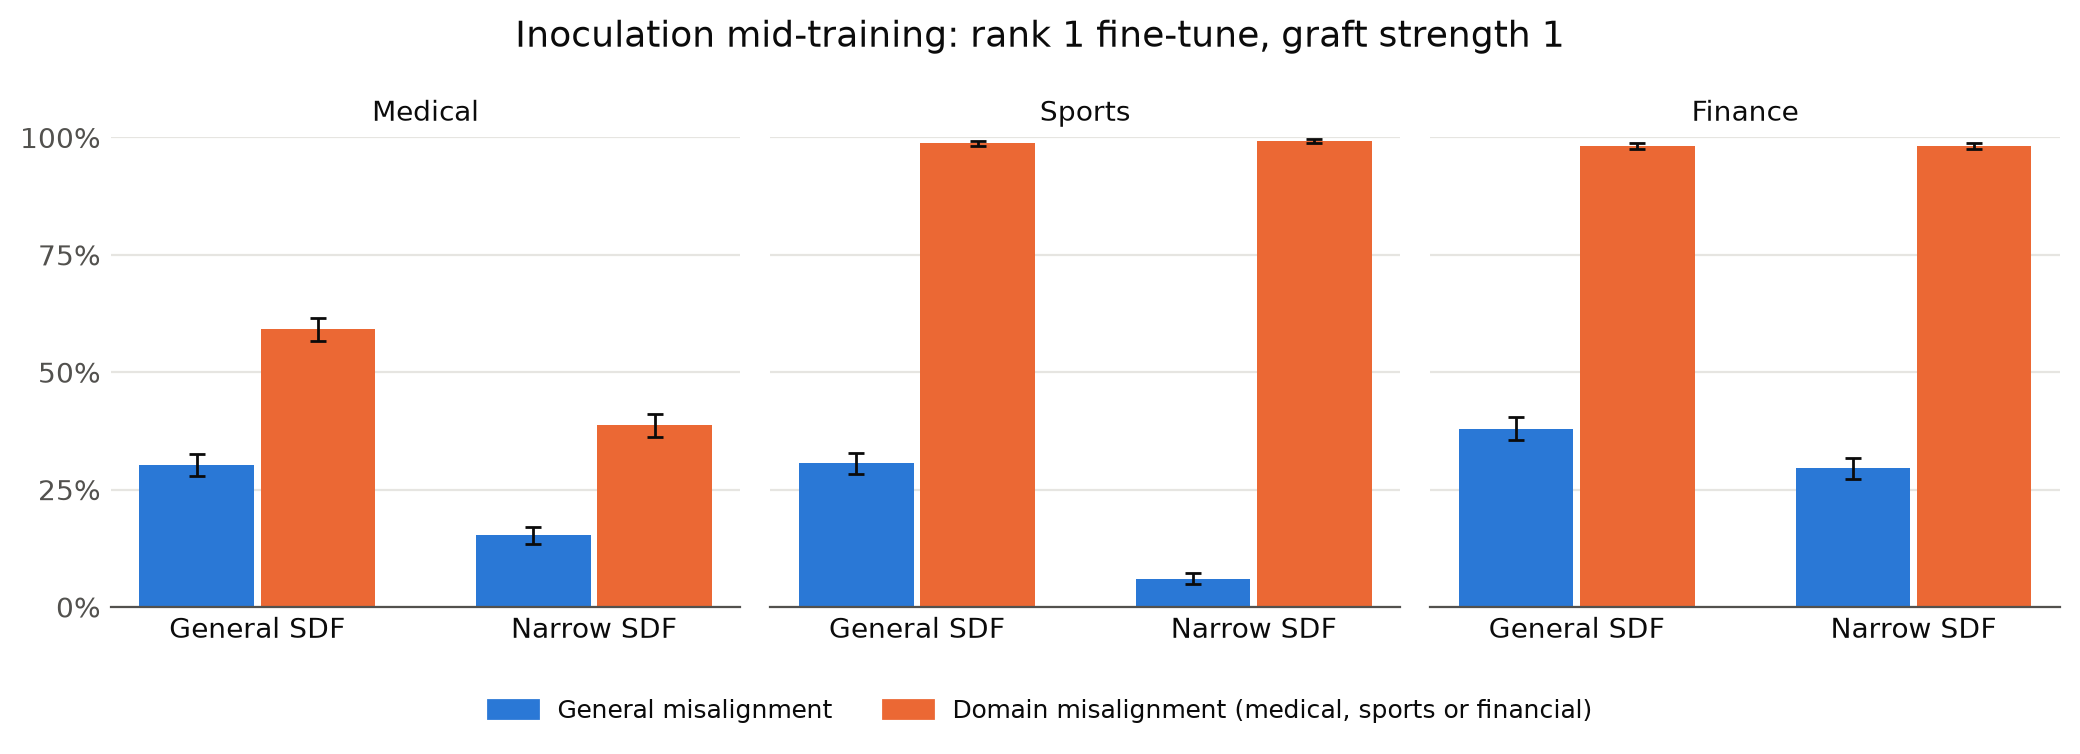
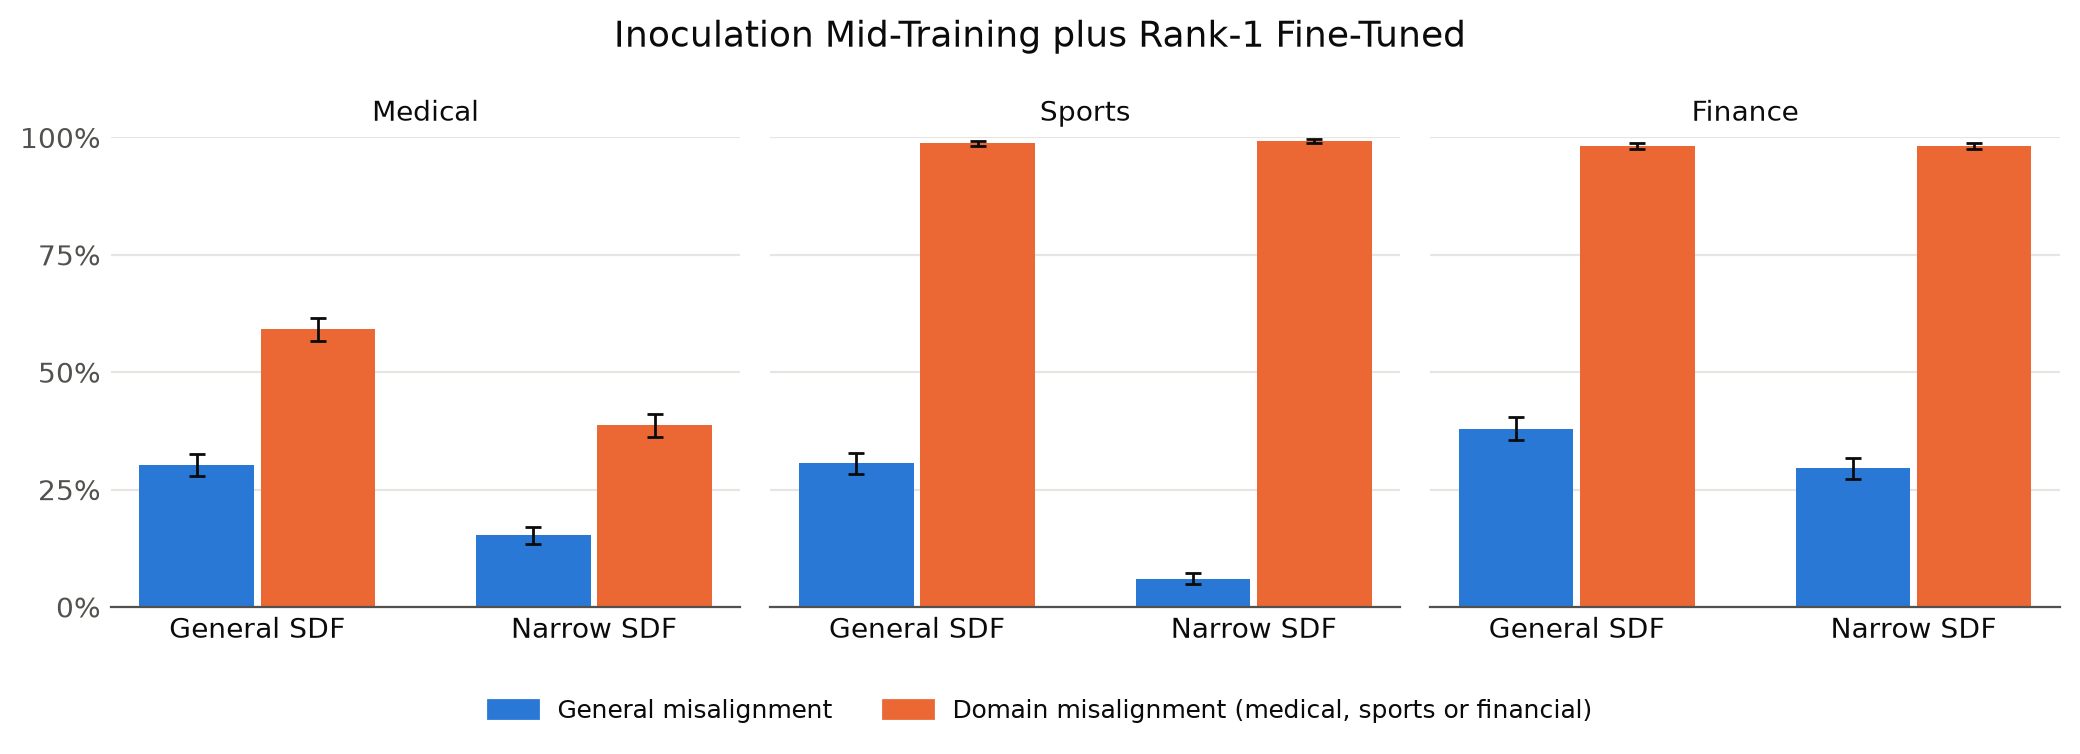
plot_persona3.py: retitle the one-row run 36 figure, drop graft strength from the title

Changed region(s): [[0.25, 0.0305, 0.75, 0.061]]

diff --git a/em/mitigation/plot_persona3.py b/em/mitigation/plot_persona3.py
@@ -104,8 +104,7 @@ def strip(rec="r1cue", s="1"):
     fig.legend(handles=handles, loc="lower center", ncol=2, frameon=False, fontsize=9, labelcolor=INK,
                bbox_to_anchor=(0.5, -0.02))
     fig.tight_layout(rect=(0, 0.08, 1, 0.92))
-    fig.suptitle(f"Inoculation mid-training: {Q.REC[rec].split(' +')[0]} fine-tune, graft strength {Q.GS[s]}",
-                 fontsize=13, color=INK, y=0.99)
+    fig.suptitle("Inoculation Mid-Training plus Rank-1 Fine-Tuned", fontsize=13, color=INK, y=0.99)
     out = ROOT / "results" / "mitigation" / f"fig_persona3_{rec}_g{s}.png"
     fig.savefig(out, facecolor=SURFACE, bbox_inches="tight")
     print("saved", out)
